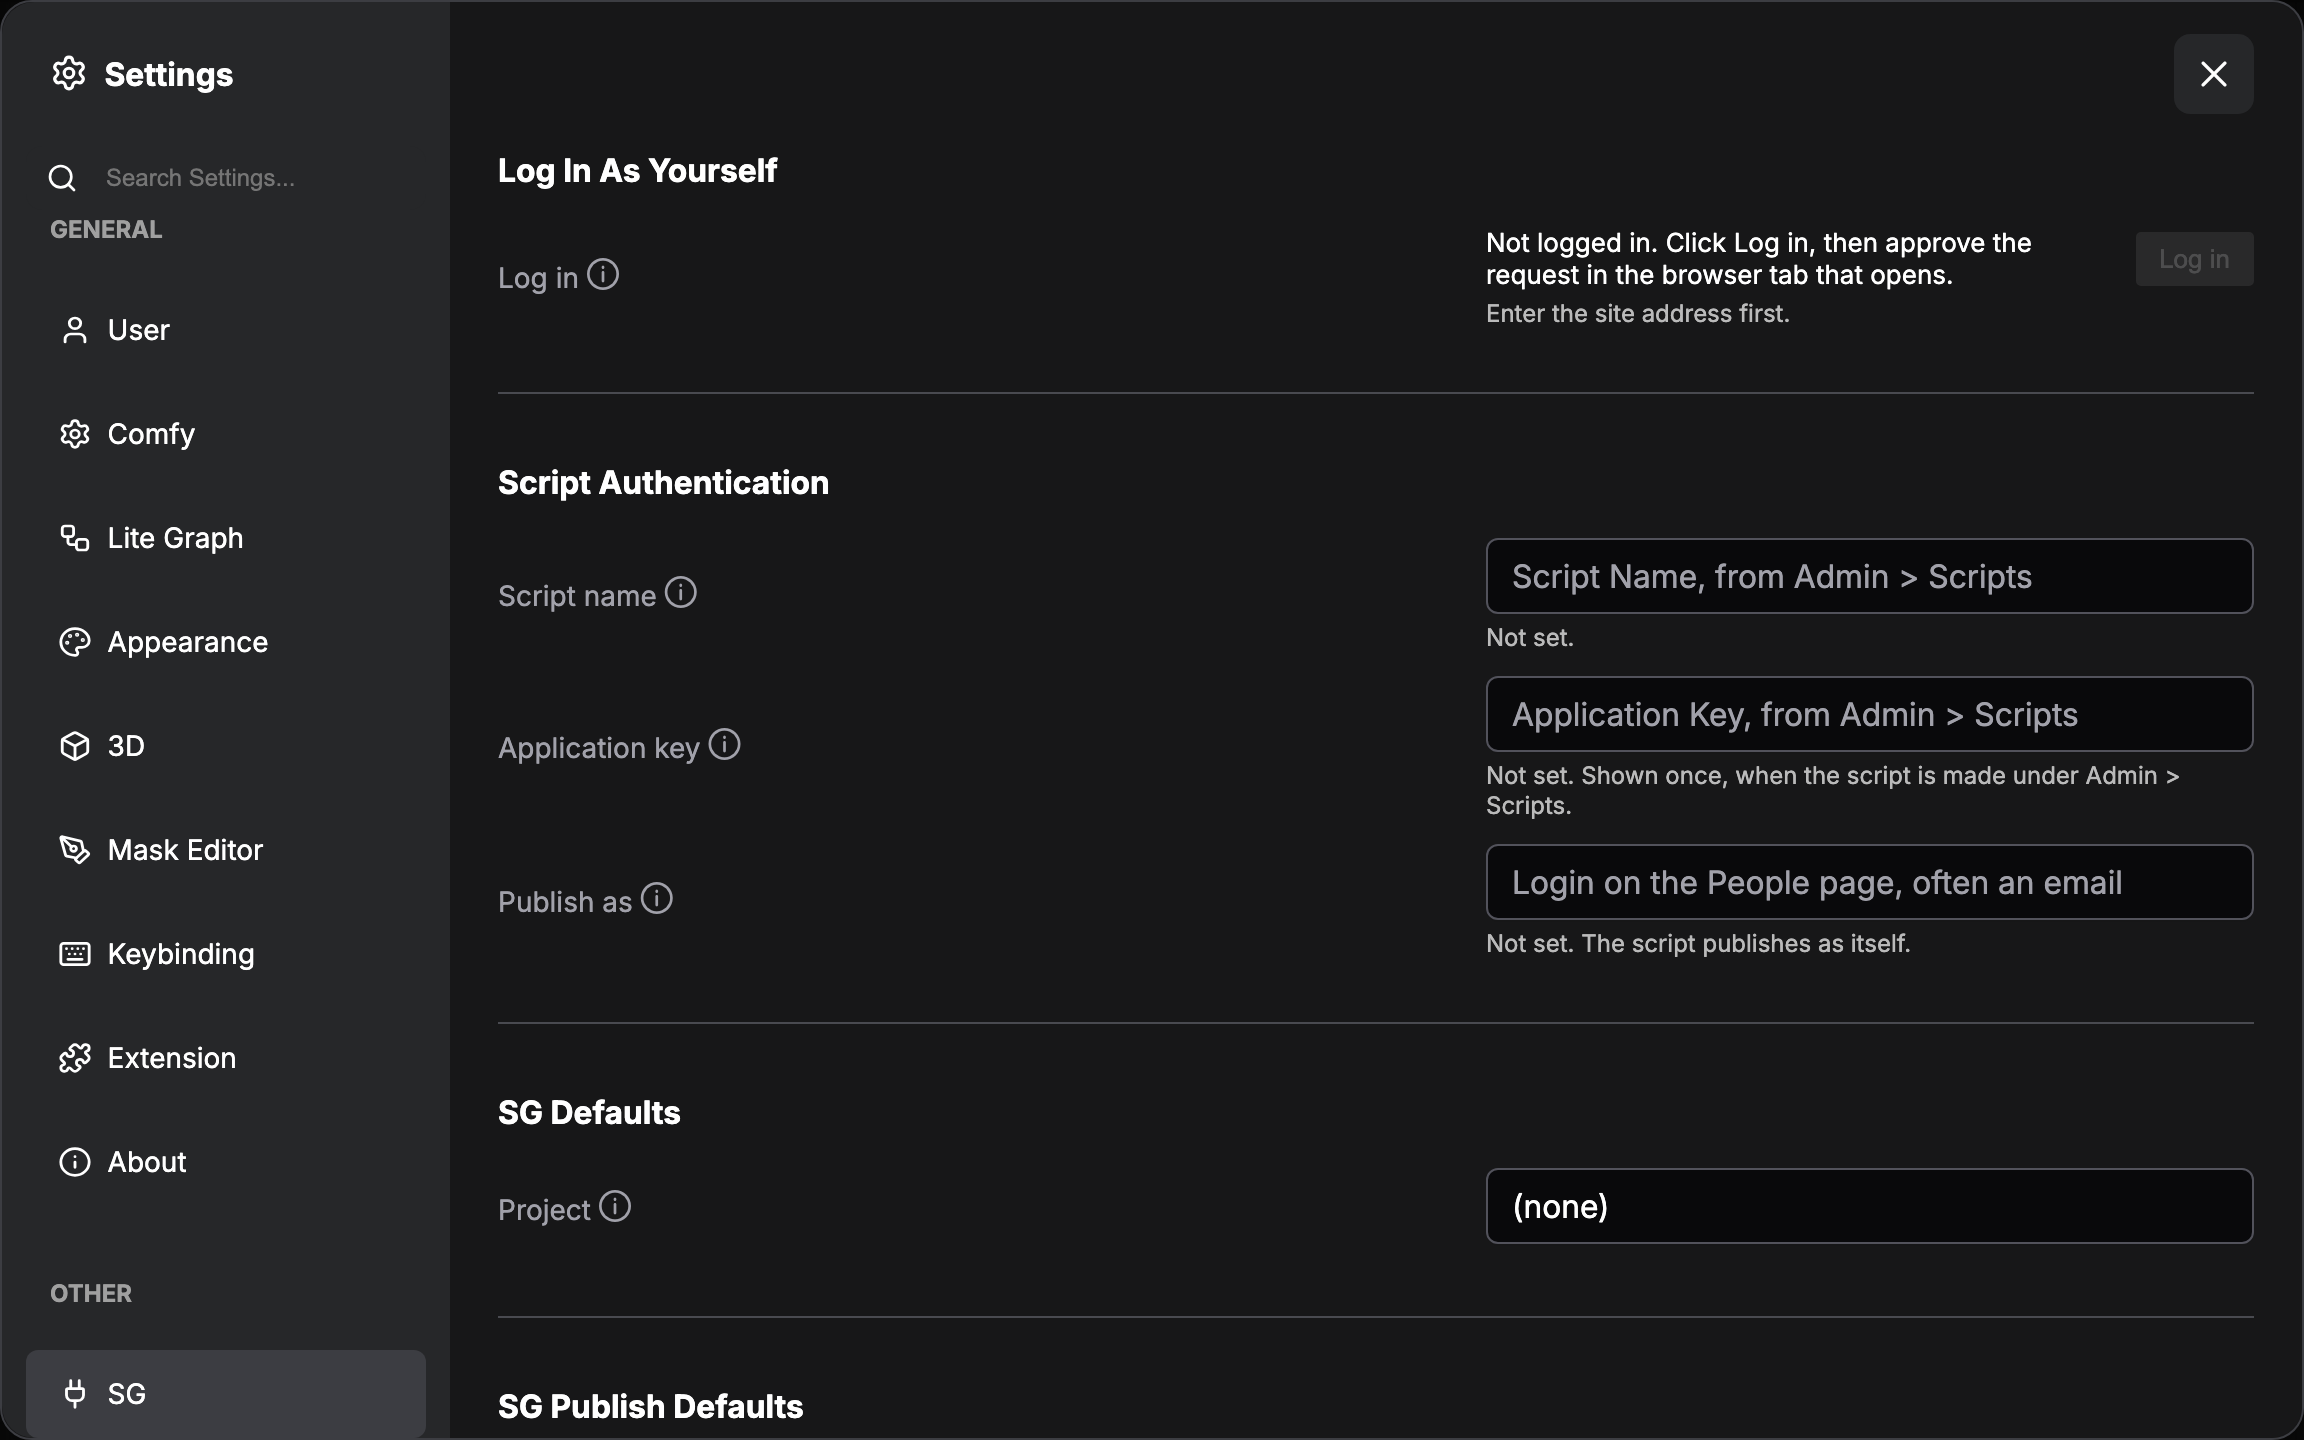
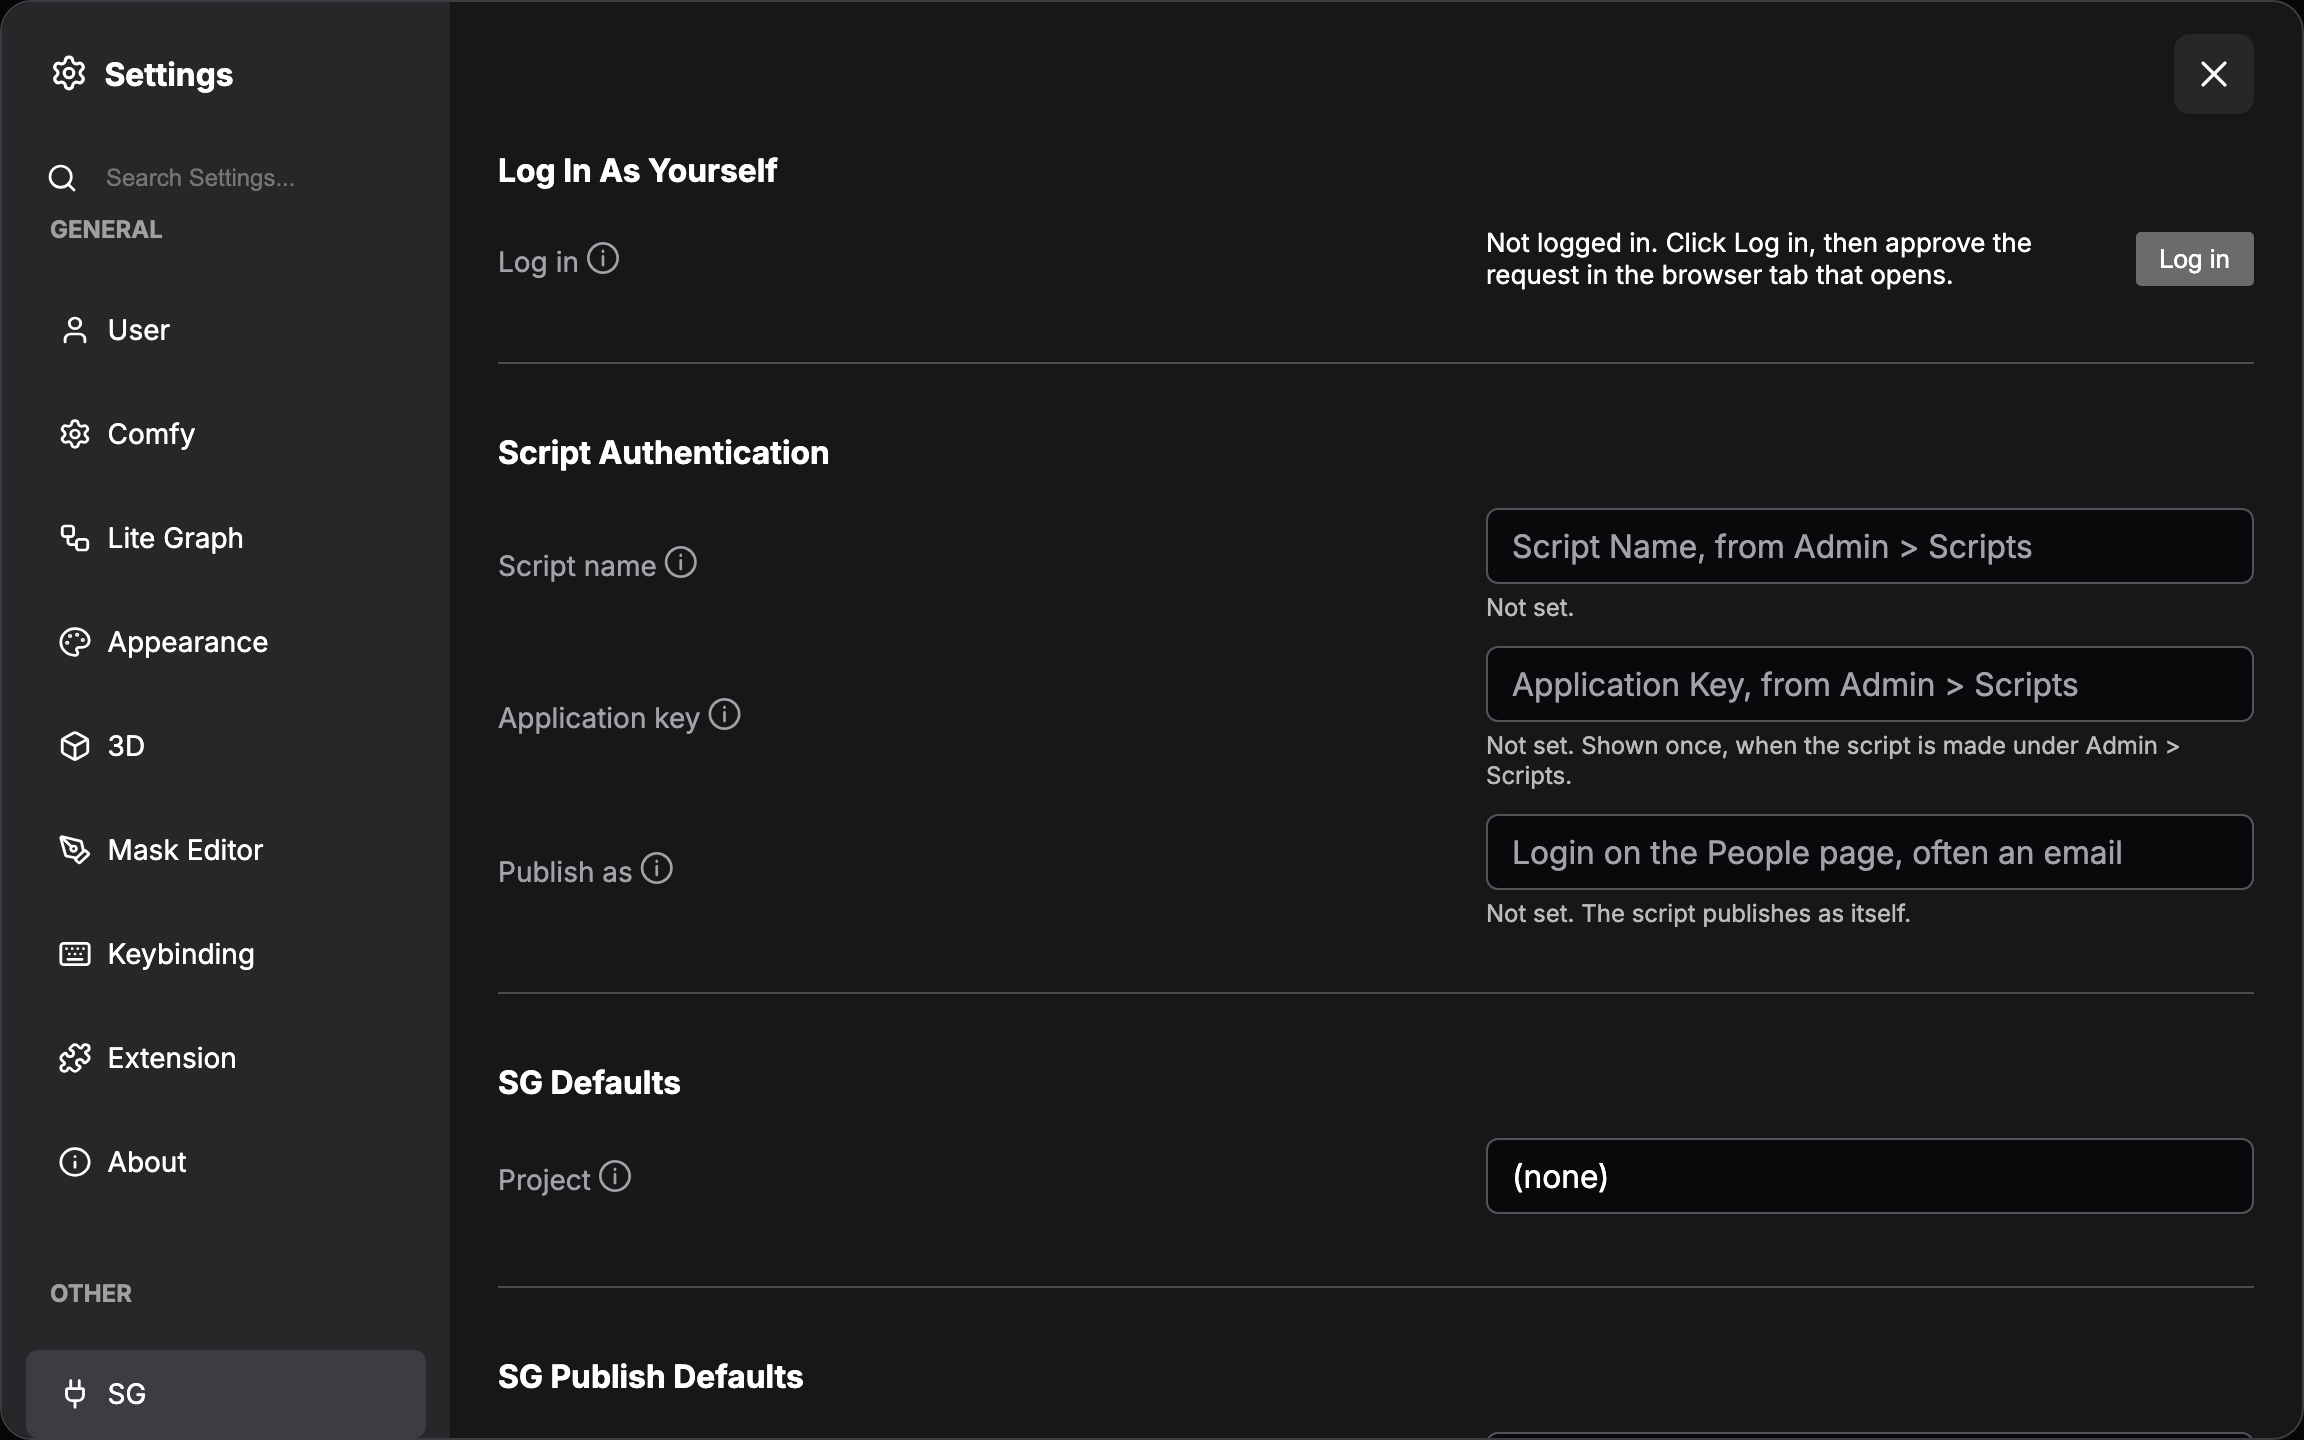
Site: sign-in shot with a site address, Registry coming soon, first-run graph opens full size, no rule over the scope list
Claude-Session: https://claude.ai/code/session_01VVMWAs5VcdbYgT57xVNf5P

diff --git a/site/src/routes/+page.svelte b/site/src/routes/+page.svelte
@@ -37,6 +37,12 @@ ok    This is the interpreter ComfyUI runs on, /Users/you/ComfyUI/venv/bin/pytho
 		}
 	];
 
+	const firstRunGraph = {
+		name: 'example-workflow',
+		title: '00_example',
+		alt: 'The 00_example template open in ComfyUI after a Run'
+	};
+
 	// A graph is unreadable at thumbnail size. The full PNG opens in a modal dialog, which Escape
 	// and the backdrop both close.
 	let shown = $state(null);
@@ -396,11 +402,17 @@ Then offer to run /setup.`;
 			<p class="note">
 				Restart ComfyUI to install or upgrade the pack. A profile edit is read on a browser refresh.
 			</p>
-			<Shot
-				name="example-workflow"
-				alt="The 00_example template open in ComfyUI after a Run"
-				caption="Step 6 opens this graph."
-			/>
+			<figure class="run-shot">
+				<button
+					type="button"
+					class="thumb"
+					aria-label="Open the 00_example graph at full size"
+					onclick={() => enlarge(firstRunGraph)}
+				>
+					<img src="{base}/media/example-workflow.png" alt={firstRunGraph.alt} width="1540" height="903" loading="lazy" />
+				</button>
+				<figcaption>Step 6 opens this graph. Click it for full size.</figcaption>
+			</figure>
 		</div>
 	</div>
 </section>
@@ -684,6 +696,11 @@ Then offer to run /setup.`;
 		scroll-snap-align: start;
 	}
 
+	.run-shot {
+		margin: 1.5rem 0 0;
+	}
+
+	.run-shot figcaption,
 	.gallery figcaption {
 		margin-top: 0.7rem;
 		color: var(--muted);
@@ -891,9 +908,7 @@ Then offer to run /setup.`;
 		display: grid;
 		grid-template-columns: minmax(0, 1fr) minmax(0, 1fr);
 		gap: 1.5rem 3rem;
-		margin-top: 2.25rem;
-		padding-top: 2rem;
-		border-top: 1px solid var(--line);
+		margin-top: 1.5rem;
 	}
 
 	.scope p {

diff --git a/README.md b/README.md
@@ -57,11 +57,7 @@ Open **Manager**, then **Custom Nodes Manager**. Search for `Flow Production Tra
 
 ### The Registry
 
-```sh
-comfy node install sg-comfyui
-```
-
-Restart ComfyUI.
+Coming soon.
 
 ### A checkout
 

diff --git a/site/src/lib/readme/install-commands.md b/site/src/lib/readme/install-commands.md
@@ -5,11 +5,7 @@ Open **Manager**, then **Custom Nodes Manager**. Search for `Flow Production Tra
 
 ### The Registry
 
-```sh
-comfy node install sg-comfyui
-```
-
-Restart ComfyUI.
+Coming soon.
 
 ### A checkout
 
